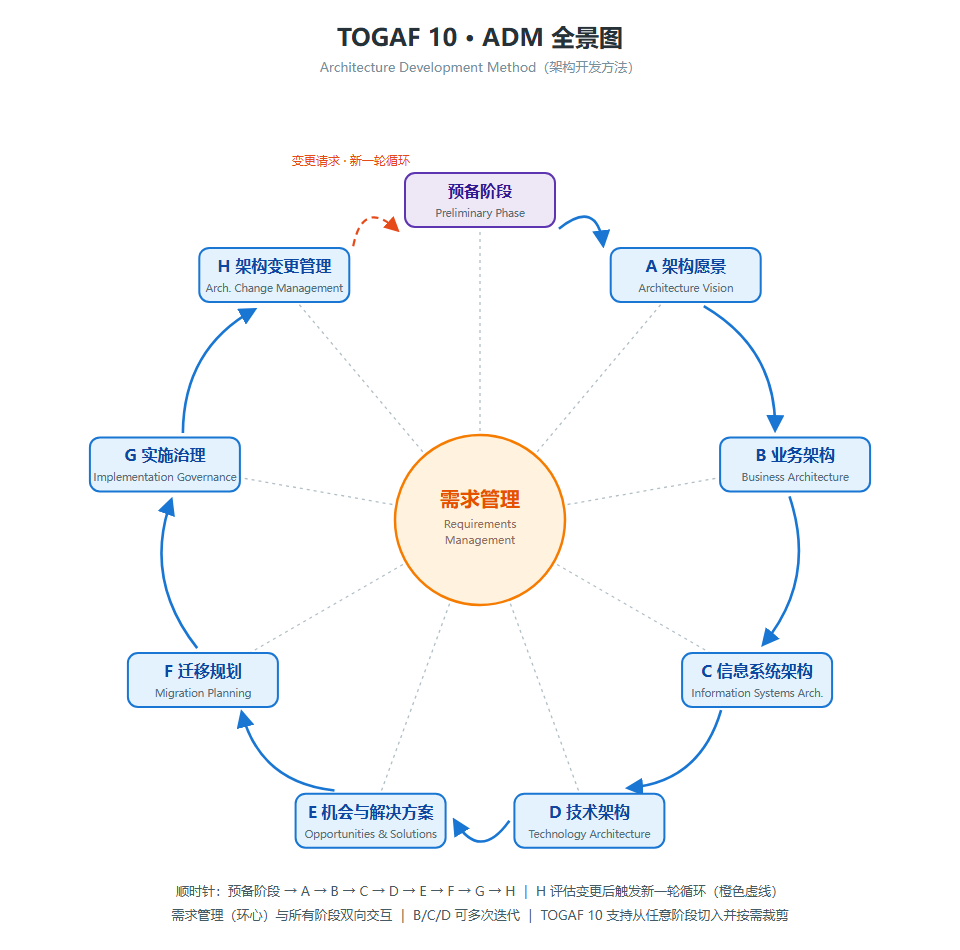
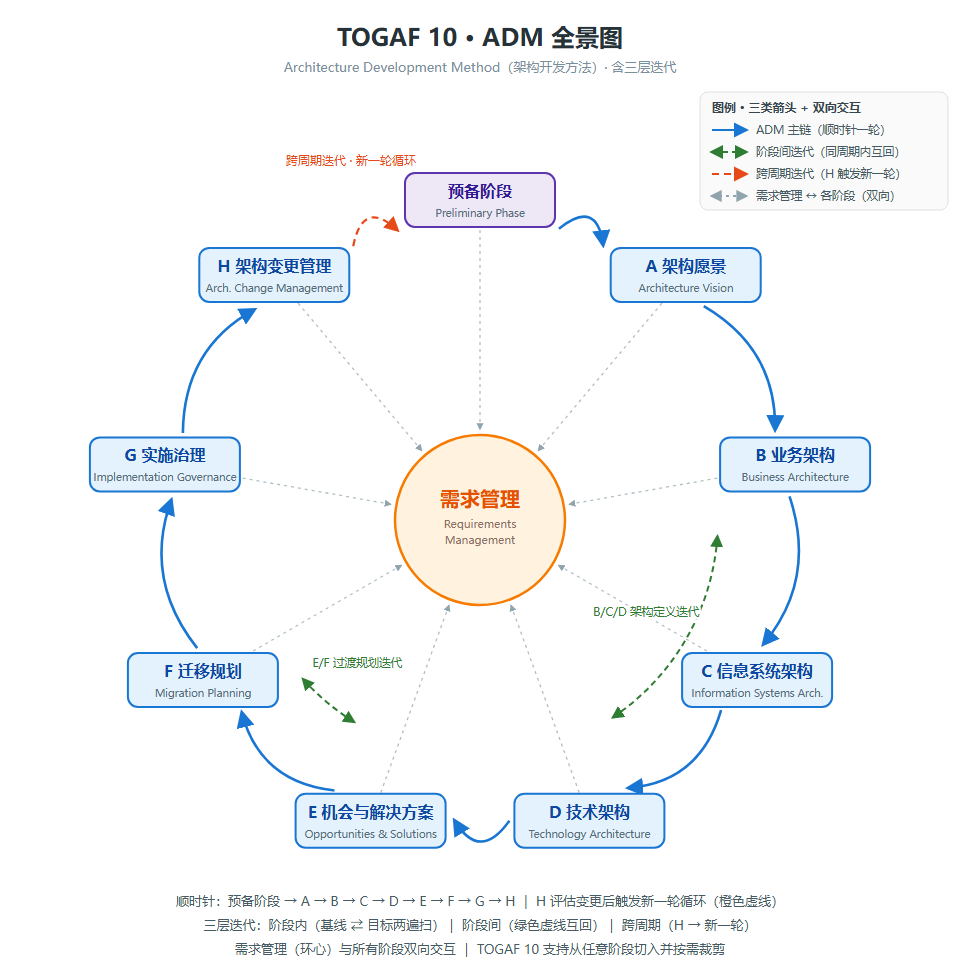
feat(06.distributed-systems): togaf - ADM 全景图补齐三层迭代语义
- 图片版新增：绿色虚线阶段间迭代弧（B⇄C⇄D 架构定义迭代 / E⇄F 过渡规划迭代）、
  灰色双向需求管理交互线、右上角四类箭头图例、底部三层迭代说明
- Mermaid 版同步补 C→B / F→E 迭代回跳虚线
- 读图要点从三条扩为四条（主链/阶段间迭代/跨周期迭代/环心需求管理）

diff --git a/06.distributed-systems/01-foundation/system-design-basics/togaf/adm.md b/06.distributed-systems/01-foundation/system-design-basics/togaf/adm.md
@@ -52,10 +52,13 @@
 
 > 📐 矢量版：[img/adm-ring.svg](img/adm-ring.svg)（缩放不失真，可直接编辑）
 
-> **读图三要点**：
-> 1. **环形主链顺时针**：预备阶段 → A → B → C → D → E → F → G → H；H 不是终点——变更请求随时可触发**新一轮 ADM 循环**（图中左侧虚线 H → 预备阶段）；
-> 2. **需求管理位于环心**，与全部 8 个字母阶段双向交互（图中虚线仅示意横向两侧，实际每个阶段都相连）——它不是"第 10 个阶段"，而是整个环的枢纽（见 §2.3）；
-> 3. **任意阶段可迭代**：B/C/D 内部可多次循环，E/F 可回跳 B/C 补架构，TOGAF 10 明确支持从任意阶段切入 + 按需裁剪（见 §3.1）。
+> **读图四要点**（对应图中四类箭头，见右上角图例）：
+> 1. **蓝色实线 = 主链顺时针**：预备阶段 → A → B → C → D → E → F → G → H，一轮 ADM 周期的默认走向；
+> 2. **绿色虚线 = 阶段间迭代（同周期内）**：B/C/D 是"架构定义迭代"整体（C 发现数据约束要回 B 修业务架构、D 发现技术不可行要回 C），E/F 是"过渡规划迭代"（迁移计划排不动要回 E 重拆工作包）——**ADM 不是瀑布，环上任意相邻段都可能回跳**；
+> 3. **橙色虚线 = 跨周期迭代**：H 不是终点，变更请求触发**新一轮 ADM 循环**（H → 预备阶段/A）；配合阶段内"基线 ⇄ 目标两遍扫"，构成 TOGAF 的**三层迭代**（阶段内 / 阶段间 / 跨周期）；
+> 4. **灰色双向虚线 = 需求管理环心**：与全部 9 个阶段双向交互——它不是"第 10 个阶段"，而是整个环的枢纽（见 §2.3）。
+>
+> 补充：TOGAF 10 明确支持**从任意阶段切入 + 按需裁剪**，上图的环是"完整版"，不是强制路线（见 §3.1）。
 
 **Mermaid 简化版**（渲染环境友好，信息与上图一致）：
 
@@ -73,6 +76,9 @@ graph TB
     G --> H["H. 架构变更管理<br/>Architecture Change Management"]
 
     H -.->|"变更请求 → 新一轮循环"| Pre
+
+    C -.->|"架构定义迭代回跳"| B
+    F -.->|"过渡规划迭代回跳"| E
 
     RM["📋 需求管理<br/>Requirements Management<br/>与所有阶段双向交互"]
     RM -.- A & B & C & D
